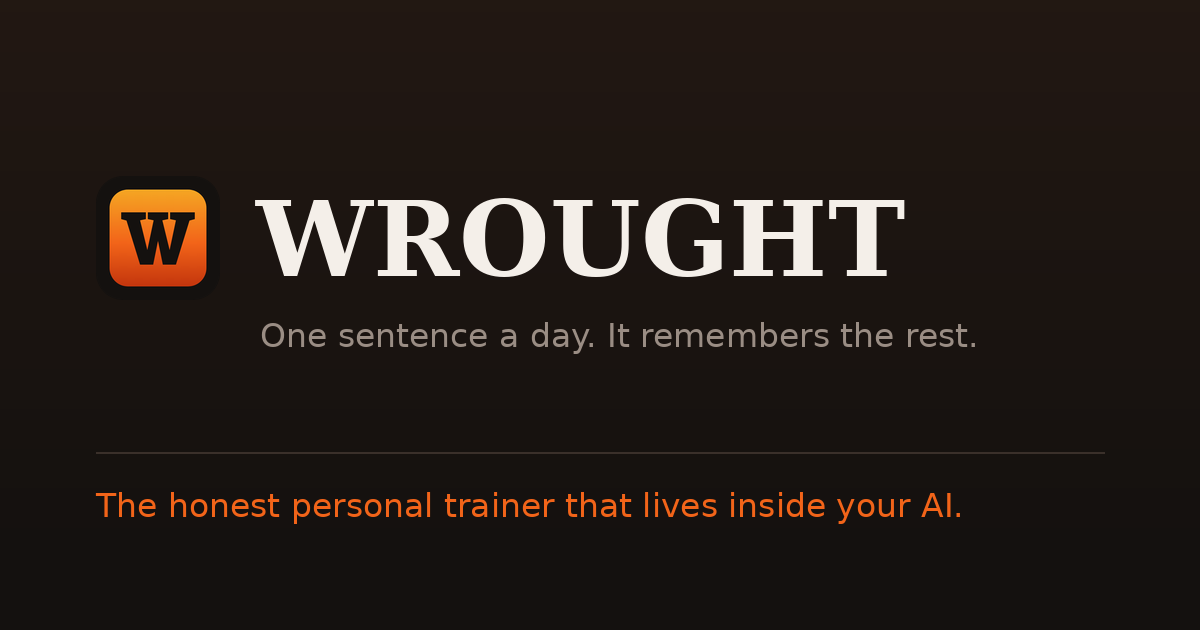
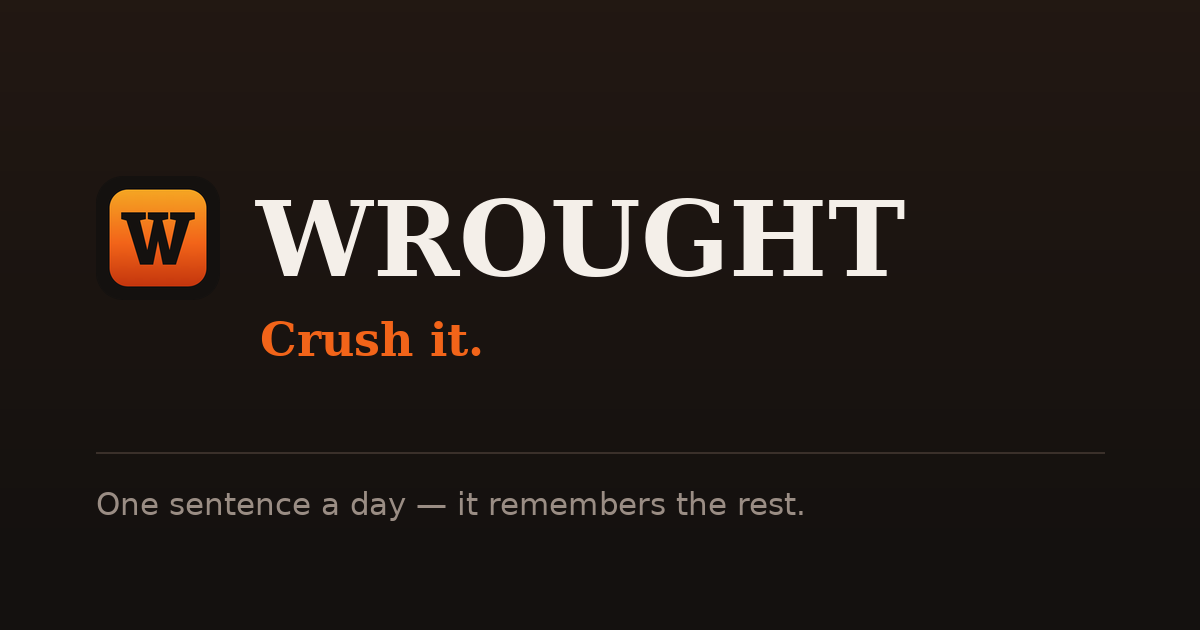
The wall is named, answered with structure — and the slogan is Crush it (#39)
"It should be keeping progress on my max weights, telling that where I'm
kind of levelling off, and it should be thinking of solutions to find out
how I can push harder."

The first half existed: the estimated max is computed on every lift, graphed
as per-session bars, and labelled an estimate everywhere it appears. What
did not exist was the VERDICT — the log knew the number had not moved in six
sessions and never said so. cardioProgress already names the wall for runs;
liftTrend() is the barbell's version.

- CLIMBING, HOLDING, LEVELLED, EARLY. A new best inside two sessions is
  climbing. Two or three quiet sessions are a rest, not a wall — naming one
  that early is how the word stops meaning anything. Four or more without
  the estimated max moving is levelled, said plainly with the date, the
  number, and how close recent sessions are sitting to it. Under five
  sessions there is no trend to call at all.
- THE SOLUTIONS ARE STRUCTURE, NEVER A HEAVIER PRESCRIPTION. Every option
  changes the SHAPE of the training and is priced from their own recorded
  history: a deload-and-rebuild (which a block schedules automatically), a
  rep-range change read off the range they have actually been living in —
  eights suggest a spell of heavy fives, heavy fives suggest a spell of
  eights — and a pointer at recovery, because a wall this long is as often
  a recovery fact as a training one. None ends in "add weight": a stalled
[…]

Changed region(s): [[0.0617, 0.7841, 0.8017, 0.8444], [0.2158, 0.5127, 0.8017, 0.573]]

diff --git a/netlify/functions/lib/training.js b/netlify/functions/lib/training.js
@@ -1521,6 +1521,102 @@ export function estimatedMax(weightKg, reps) {
   return Math.round(w * (1 + Math.min(r, 12) / 30) * 10) / 10;
 }
 
+// ── The wall, named — and answered with structure, never with "add weight" ──
+//
+// The founder: "it should be keeping progress on my max weights, telling that
+// where I'm kind of levelling off, and it should be thinking of solutions to
+// find out how I can push harder."
+//
+// The first half existed: the estimated max is computed on every lift and
+// graphed. What did not exist was the VERDICT — the log knew the number had
+// not moved in six sessions and never said so, and "am I levelling off" is
+// precisely the question a training record is for. cardioProgress already
+// names the wall for runs; this is the barbell's version.
+//
+// THE SOLUTIONS ARE STRUCTURE, NEVER A HEAVIER PRESCRIPTION. Every option
+// here changes the SHAPE of the training — a deload and rebuild, a different
+// rep range, a look at recovery — and every one is priced from the lifter's
+// own recorded history. None of them ends in "add weight": a stalled lift is
+// stalled precisely because adding weight stopped working, and "push harder
+// at the thing that is not moving" is the one suggestion that is both useless
+// and dangerous. Same family as readiness and the form watch: the record can
+// say what it sees and what usually moves it; it cannot see the lifter.
+export function liftTrend(points = [], { fmt = v => `${v}kg` } = {}) {
+  // Per-session bests, ascending by date, each reduced to an estimated max so
+  // 100×8 and 105×3 sit on one scale — the only scale a trend can live on.
+  const es = (points || [])
+    .map(p => ({ date: p.date, e: estimatedMax(p.weight_kg, p.reps), reps: p.reps }))
+    .filter(p => p.e != null);
+
+  if (es.length < 5) {
+    return { state: 'early', sessions: es.length,
+      say: es.length >= 2 ? 'Too few sessions to call a trend yet.' : null };
+  }
+
+  let best = es[0], bestAt = 0;
+  for (let i = 1; i < es.length; i++) if (es[i].e > best.e) { best = es[i]; bestAt = i; }
+  // Sessions since the estimated max last moved. One quiet session is a rest
+  // week; four is a wall — the same "one bad day cannot sink it" reasoning as
+  // the run trend, pointed the other way.
+  const flat = es.length - 1 - bestAt;
+  const recentBest = Math.max(...es.slice(-3).map(p => p.e));
+
+  const base = {
+    sessions: es.length,
+    best_e_kg: best.e,
+    best_date: best.date,
+    sessions_since_best: flat,
+    recent_best_kg: recentBest,
+  };
+
+  if (flat <= 1) {
+    return { ...base, state: 'climbing',
+      say: `Climbing — best estimated max ${fmt(best.e)}, set ${flat === 0 ? 'last session' : 'a session ago'}.` };
+  }
+
+  if (flat < 4) {
+    // Not news yet. Naming a wall after two quiet sessions is how the word
+    // stops meaning anything.
+    return { ...base, state: 'holding',
+      say: `Holding — best estimated max ${fmt(best.e)} on ${best.date}, ${flat} sessions ago.` };
+  }
+
+  // ── Levelled. Say it plainly, and answer it. ─────────────────────────────
+  const gap = Math.round((best.e - recentBest) * 10) / 10;
+  const push = [];
+
+  push.push({
+    what: 'deload_rebuild',
+    say: `${flat} sessions without the estimated max moving. The standard answer is a light week — same lifts, about half the sets — then building back up: backing off is what usually moves a wall, and a block schedules the deload automatically.`,
+  });
+
+  // The rep range they have actually been living in, from their own sets.
+  const recentReps = es.slice(-5).map(p => p.reps).filter(r => Number.isFinite(r)).sort((a, b) => a - b);
+  if (recentReps.length >= 3) {
+    const median = recentReps[Math.floor(recentReps.length / 2)];
+    if (median >= 8) {
+      push.push({ what: 'lower_reps',
+        say: `Recent sets are almost all ${median}s and up — a few weeks in the 4–6 range is a different stimulus, at loads your own history already supports.` });
+    } else if (median <= 5) {
+      push.push({ what: 'higher_reps',
+        say: `Recent sets are almost all heavy ${median}s — a spell of 8s builds the base the heavy sets pull from.` });
+    }
+  }
+
+  push.push({
+    what: 'recovery_context',
+    say: 'Worth reading beside sleep and the recovery panel — a wall this long is as often a recovery fact as a training one.',
+  });
+
+  return {
+    ...base,
+    state: 'levelled',
+    say: `Levelled — nothing past ${fmt(best.e)} estimated since ${best.date}, ${flat} sessions ago` +
+         (gap > 0 ? ` (recent best sits ${fmt(gap)} under it)` : ', and recent sessions are knocking on it') + '.',
+    push,
+  };
+}
+
 // ── Timed movements, and the artifact the old default left behind ───────────
 // WORD BOUNDARIES, because the first version of this pattern lived inline in
 // two files as /treadmill|bike|row(er)?|...|run|.../ and matched far more than

diff --git a/public/app.html b/public/app.html
@@ -566,6 +566,14 @@ svg.ser .trend { stroke-dasharray: none; }
   font-size: 19px; letter-spacing: .01em; text-transform: uppercase;
 }
 .lift-foot { color: var(--ash-dim); font-size: 11.5px; font-family: var(--mono); margin: 8px 0 0; }
+/* The verdict on the curve. Climbing is warm, a wall is stated in the same
+   calm voice as everything else — a plateau is information, not a failure. */
+.lift-trend { margin: 7px 0 0; font-size: 12.5px; color: var(--ash); }
+.lift-trend.climbing { color: var(--moss); }
+.lift-trend.levelled { color: var(--ash); }
+.lift-push { margin: 4px 0 0 2px; }
+.lift-push .sub { margin: 3px 0; font-size: 12px; }
+.pushfoot { font-style: italic; }
 /* Bars rather than a line: a session is a discrete event, and a line between two
    of them draws days that never happened. */
 .lift .bars {
@@ -6480,6 +6488,12 @@ function liftsPanel(d) {
         ? `${l.best.reps ?? '—'} reps`
         : `${l.best.weight}${d.weight_unit} × ${l.best.reps ?? '—'}`} · ${l.sessions} sessions${
         l.metric === 'reps' ? ' · bodyweight, measured in reps' : ''}</p>
+      ${l.trend?.say && l.trend.state !== 'early' ? `<p class="lift-trend ${esc(l.trend.state)}">${esc(l.trend.say)}</p>` : ''}
+      ${l.trend?.push?.length ? `<div class="lift-push">
+        ${l.trend.push.map(x => `<p class="sub dim">↳ ${esc(x.say)}</p>`).join('')}
+        <p class="sub dim pushfoot">Options, not orders — none of them is "add weight", because a stalled lift is
+        stalled precisely because that stopped working.</p>
+      </div>` : ''}
     </div>`;
   }).join('');
   const anyMax = d.lifts.some(l => l.max);

diff --git a/netlify/functions/api-progress.js b/netlify/functions/api-progress.js
@@ -13,7 +13,7 @@ import {
   rangeFacts, summariseRange, dayFacts, careFlags, scoreGoals, supabase,
 } from './lib/wrought.js';
 import { orderInsight, earnedRoom, energyBalance, exerciseKey, deviceMatrix, weekdayPattern, focusCall, lastSession,
-         weekSoFar, readiness, targetOptions, estimatedMax, readMovement, backfillDerivedSets } from './lib/training.js';
+         weekSoFar, readiness, targetOptions, estimatedMax, liftTrend, readMovement, backfillDerivedSets } from './lib/training.js';
 import { planRead } from './lib/plan.js';
 import { intakeState } from './lib/intake.js';
 import { formWatch, cardioProgress } from './lib/form.js';
@@ -405,6 +405,12 @@ export const handler = async (event) => {
         };
       })(),
       latest: { weight: w(last.weight_kg), reps: last.reps, date: last.date },
+      // The verdict on the curve — climbing, holding, or levelled, with the
+      // wall answered by structure. Computed in lib/training.js so the panel
+      // and any tool that carries it can never disagree.
+      trend: loaded ? liftTrend(points, {
+        fmt: v => imperial ? `${kgToLb(v)} lb` : `${v} kg`,
+      }) : null,
       change: points.length > 1 ? Math.round((at(last) - at(first)) * 10) / 10 : null,
       // Both numbers ride along on every point: the question is never just
       // "how heavy" — 100kg for 3 and 100kg for 8 are different weeks.

diff --git a/public/index.html b/public/index.html
@@ -7,7 +7,7 @@
 <meta name="description" content="Say one sentence. It remembers everything else — what you ate, what you lifted, what the scale said — and tells you the truth about your week.">
 <meta name="theme-color" content="#14110F">
 <meta property="og:title" content="WROUGHT">
-<meta property="og:description" content="One sentence a day. It remembers the rest.">
+<meta property="og:description" content="Crush it. One sentence a day — it remembers the rest.">
 <meta property="og:type" content="website">
 <meta property="og:image" content="https://wrought.fit/og.png">
 <meta property="og:image:width" content="1200">
@@ -393,7 +393,8 @@ footer a { color: var(--ash); }
     <path fill="#14110F" d="M104 150 L206 150 L206 178 L182 183 L212 306 L238 183 L214 178 L214 150 L298 150 L298 178 L274 183 L304 306 L330 183 L306 178 L306 150 L408 150 L408 178 L386 184 L330 366 L276 366 L256 268 L236 366 L182 366 L126 184 L104 178 Z"/>
   </svg>
   <h1>WROUGHT</h1>
-  <p class="tag">Say one sentence. It remembers the rest.</p>
+  <p class="tag">Crush it.</p>
+  <p class="sub">Say one sentence. It remembers the rest.</p>
   <p class="sub">Lives inside ChatGPT. No app to download, no forms to fill in.</p>
 </header>
 
